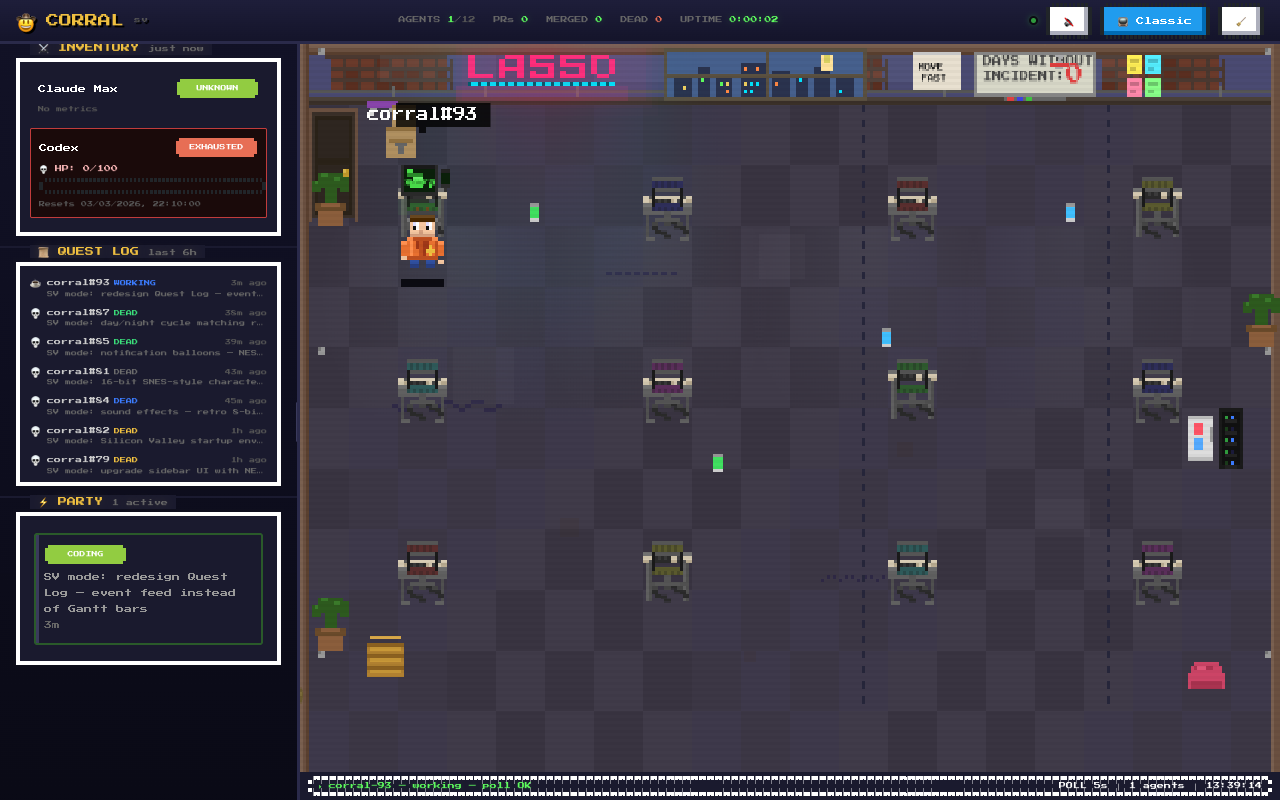
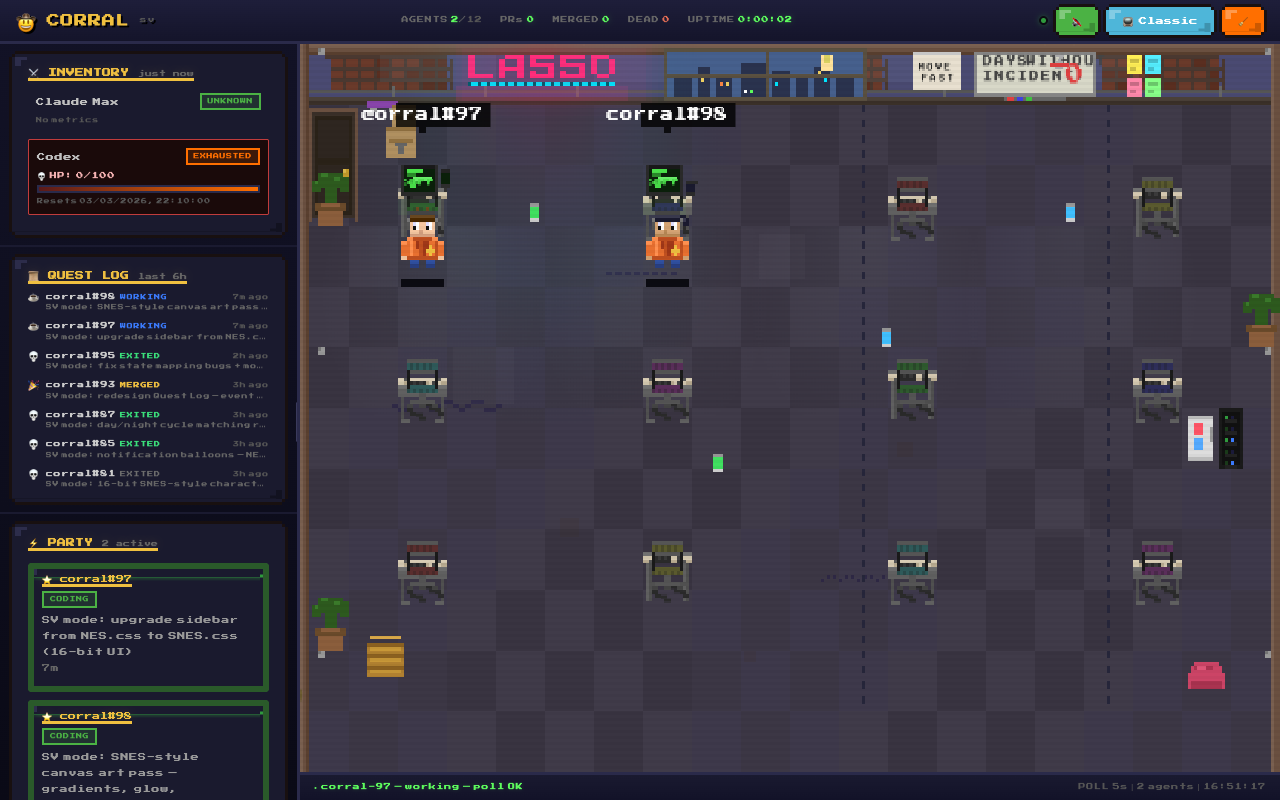
SV mode: upgrade sidebar from NES.css to SNES.css (16-bit UI)
Swap NES.css (8-bit) for SNES.css (16-bit) framework to give the
sidebar a richer 16-bit aesthetic with smoother borders and RPG-style
components.

- Replace CDN: nes.css@2.3.0 → snes.css@1.0.1
- Containers: nes-container → snes-container with colored title underlines
  (nature/green for PARTY, sunshine/yellow for QUEST LOG, ember/orange for INVENTORY)
- Buttons: nes-btn → snes-button with themed colors (ocean, ember)
- Progress bars: custom snes-progress with RPG stat bar gradients
- Badges: custom snes-badge (SNES.css has no badge component)
- Notification balloons: nes-balloon → snes-blockquote has-phantom-bg
- Icons: nes-icon → emoji equivalents (🪙, ⭐)
- Dark theme overrides for all SNES components
- Mobile responsive CSS updated for SNES classes
- Canvas rendering completely unchanged

diff --git a/sv.html b/sv.html
@@ -5,7 +5,7 @@
 <meta name="viewport" content="width=device-width, initial-scale=1.0">
 <title>Corral 🤠 — SV Mode</title>
 <link href="https://fonts.googleapis.com/css2?family=Press+Start+2P&display=swap" rel="stylesheet">
-<link href="https://unpkg.com/nes.css@2.3.0/css/nes.min.css" rel="stylesheet" />
+<link href="https://unpkg.com/snes.css@1.0.1/dist/snes.min.css" rel="stylesheet" />
 <style>
   * { margin: 0; padding: 0; box-sizing: border-box; }
   body {
@@ -421,41 +421,107 @@
   /* No-data message */
   .no-data { color: #555; font-size: 7px; text-align: center; padding: 12px; }
 
-  /* === NES.CSS DARK THEME OVERRIDES === */
-  .nes-container.is-dark {
+  /* === SNES.CSS DARK THEME OVERRIDES === */
+  .snes-container {
     background: #1a1a2e;
     padding: 8px 10px;
     margin-bottom: 0;
     position: relative;
+    border-image-outset: 3px;
+    border-width: 6px;
   }
-  .nes-container.is-dark.with-title > .title {
-    background-color: #1a1a2e;
+  .snes-container::before {
+    background-color: rgba(0,0,0,0.3);
+    height: 9px;
+    width: calc(100% + 9px);
+  }
+  .snes-container::after {
+    background-color: rgba(100,100,160,0.25);
+    height: 9px;
+    width: calc(100% + 9px);
+  }
+  .snes-container > .snes-container-title {
     color: #f0c040;
     font-size: 9px;
     text-shadow: 0 0 8px #f0c04022;
+    letter-spacing: 0;
+    word-spacing: normal;
+    margin-bottom: 8px;
   }
-  .nes-container.is-dark::after {
-    box-shadow: inset -4px -4px #2a2a4a;
+  .snes-container > .snes-container-title::after {
+    background-color: #f0c040;
+    height: 3px;
+    bottom: -4px;
   }
-  .nes-container.is-dark::before {
-    box-shadow: inset -4px -4px #3a3a5c;
+  /* Custom badges (SNES.css has no badge component) */
+  .snes-badge { white-space: nowrap; display: inline-block; }
+  .snes-badge span {
+    font-family: 'Press Start 2P', cursive;
+    font-size: 6px;
+    padding: 2px 6px;
+    border: 2px solid;
+    display: inline-block;
+    text-transform: uppercase;
+    letter-spacing: 0.5px;
   }
-  .nes-badge { white-space: nowrap; }
-  .nes-badge span { font-size: 6px; padding: 2px 6px; }
-  .nes-progress {
+  .snes-badge .is-success { border-color: #4bb244; color: #4bb244; background: rgba(75,178,68,0.15); }
+  .snes-badge .is-primary { border-color: #4eb6d9; color: #4eb6d9; background: rgba(78,182,217,0.15); }
+  .snes-badge .is-warning { border-color: #f2c019; color: #f2c019; background: rgba(242,192,25,0.15); }
+  .snes-badge .is-error { border-color: #ff6f00; color: #ff6f00; background: rgba(255,111,0,0.15); }
+  /* SNES-styled progress bars (RPG stat bars) */
+  .snes-progress {
+    -webkit-appearance: none;
+    appearance: none;
     height: 8px;
-    border-color: #2a2a4a;
+    width: 100%;
+    border: 2px solid #2a2a4a;
     background: #0f0f1a;
+    display: block;
   }
-  .nes-btn {
+  .snes-progress::-webkit-progress-bar { background: #0f0f1a; }
+  .snes-progress::-webkit-progress-value { transition: width 0.3s ease; }
+  .snes-progress.is-success::-webkit-progress-value { background: linear-gradient(90deg, #1a4a1a, #4bb244); }
+  .snes-progress.is-primary::-webkit-progress-value { background: linear-gradient(90deg, #1a2a5a, #4eb6d9); }
+  .snes-progress.is-warning::-webkit-progress-value { background: linear-gradient(90deg, #5a4a10, #f2c019); }
+  .snes-progress.is-error::-webkit-progress-value { background: linear-gradient(90deg, #5a1a1a, #ff6f00); }
+  .snes-progress::-moz-progress-bar { transition: width 0.3s ease; }
+  .snes-progress.is-success::-moz-progress-bar { background: linear-gradient(90deg, #1a4a1a, #4bb244); }
+  .snes-progress.is-primary::-moz-progress-bar { background: linear-gradient(90deg, #1a2a5a, #4eb6d9); }
+  .snes-progress.is-warning::-moz-progress-bar { background: linear-gradient(90deg, #5a4a10, #f2c019); }
+  .snes-progress.is-error::-moz-progress-bar { background: linear-gradient(90deg, #5a1a1a, #ff6f00); }
+  /* SNES button overrides for compact dark UI */
+  .snes-button {
     font-family: 'Press Start 2P', cursive;
     font-size: 8px;
     padding: 4px 10px;
+    border-image-outset: 3px;
+    border-width: 6px;
+    line-height: 1;
+    color: #fff;
   }
-  .nes-btn.is-primary { color: #fff; }
-  .nes-icon { display: inline-block; vertical-align: middle; }
-  .sidebar .nes-container {
-    border-image-repeat: stretch;
+  .snes-button::before {
+    height: 9px;
+    width: calc(100% + 9px);
+  }
+  .snes-button::after {
+    height: 9px;
+    width: calc(100% + 9px);
+  }
+  /* SNES blockquote overrides for notification balloons */
+  .snes-blockquote.notif-balloon {
+    text-align: left;
+    border-image-outset: 3px;
+    border-width: 6px;
+    padding: 8px 10px;
+    margin-bottom: 0;
+  }
+  .snes-blockquote.notif-balloon::before {
+    height: 9px;
+    width: calc(100% + 9px);
+  }
+  .snes-blockquote.notif-balloon::after {
+    height: 9px;
+    width: calc(100% + 9px);
   }
 
   /* Mobile menu button — hidden on desktop */
@@ -541,16 +607,16 @@
     }
     .ac-detail { font-size: 9px; line-height: 2.2; }
 
-    /* NES.css mobile overrides */
-    .nes-container.is-dark.with-title {
+    /* SNES.css mobile overrides */
+    .snes-container {
       padding: 8px 10px;
     }
-    .nes-container.is-dark.with-title > .title {
+    .snes-container > .snes-container-title {
       font-size: 8px;
     }
-    .nes-badge span { font-size: 5px; }
-    .nes-btn { font-size: 7px; padding: 3px 6px; }
-    .nes-progress { height: 6px; }
+    .snes-badge span { font-size: 5px; }
+    .snes-button { font-size: 7px; padding: 3px 6px; }
+    .snes-progress { height: 6px; }
 
     /* Sidebar sections: more padding */
     .sb-section { padding: 10px 12px; }
@@ -614,7 +680,7 @@
     .top-title { font-size: 9px; }
     .top-title .ver { font-size: 6px; }
     .top-stats { font-size: 6px; gap: 6px 10px; }
-    .nes-btn { font-size: 6px; padding: 2px 4px; }
+    .snes-button { font-size: 6px; padding: 2px 4px; }
 
     .sb-header { font-size: 9px; }
     .agent-card { padding: 8px 10px !important; }
@@ -656,10 +722,10 @@
   </div>
   <div class="top-controls">
     <div class="conn-dot connecting" id="connDot" title="Connecting"></div>
-    <button class="nes-btn" id="soundToggleBtn" onclick="toggleSound()" title="Sound off (S)">🔇</button>
-    <button class="nes-btn is-primary" id="toggleViewBtn" onclick="switchToClassic()" title="Switch to Classic view">📺 Classic</button>
-    <button class="nes-btn" id="cleanBtn" onclick="cleanAgents()">🧹</button>
-    <button class="nes-btn mobile-menu-btn" id="mobileMenuBtn" onclick="toggleMobileSidebar()" title="Toggle sidebar">☰</button>
+    <button class="snes-button" id="soundToggleBtn" onclick="toggleSound()" title="Sound off (S)">🔇</button>
+    <button class="snes-button has-ocean-color" id="toggleViewBtn" onclick="switchToClassic()" title="Switch to Classic view">📺 Classic</button>
+    <button class="snes-button has-ember-color" id="cleanBtn" onclick="cleanAgents()">🧹</button>
+    <button class="snes-button mobile-menu-btn" id="mobileMenuBtn" onclick="toggleMobileSidebar()" title="Toggle sidebar">☰</button>
   </div>
 </div>
 
@@ -674,8 +740,8 @@
 
     <!-- Usage / Inventory -->
     <div class="sb-section">
-      <section class="nes-container is-dark with-title">
-        <p class="title">⚔ INVENTORY <span class="count" id="usageUpdated" style="font-size:7px;color:#666">—</span></p>
+      <section class="snes-container">
+        <p class="snes-container-title has-ember-underline">⚔ INVENTORY <span class="count" id="usageUpdated" style="font-size:7px;color:#666">—</span></p>
         <div id="usageCards">
           <div class="no-data">Loading usage data...</div>
         </div>
@@ -684,8 +750,8 @@
 
     <!-- Timeline / Quest Log -->
     <div class="sb-section">
-      <section class="nes-container is-dark with-title">
-        <p class="title">📜 QUEST LOG <span class="count" id="timelineRange" style="font-size:7px;color:#666">—</span></p>
+      <section class="snes-container">
+        <p class="snes-container-title has-sunshine-underline">📜 QUEST LOG <span class="count" id="timelineRange" style="font-size:7px;color:#666">—</span></p>
 
         <div id="timelineRows" class="ql-feed">
           <div class="no-data">No quests yet...</div>
@@ -695,8 +761,8 @@
 
     <!-- Agents / Party -->
     <div class="sb-section">
-      <section class="nes-container is-dark with-title">
-        <p class="title">⚡ PARTY <span class="count" id="agentCount" style="font-size:7px;color:#666">—</span></p>
+      <section class="snes-container">
+        <p class="snes-container-title has-nature-underline">⚡ PARTY <span class="count" id="agentCount" style="font-size:7px;color:#666">—</span></p>
         <div id="notificationArea"></div>
         <div id="agentCards">
           <div class="no-data">Waiting for agent data...</div>
@@ -711,7 +777,7 @@
       <canvas id="office" width="640" height="384"></canvas>
       <div class="scanlines"></div>
     </div>
-    <div class="status-bar nes-container is-dark is-rounded" style="padding:0 14px;margin:0;border-radius:0">
+    <div class="status-bar" style="padding:0 14px;margin:0">
       <span class="sb-log" id="statusLog">▸ Connecting to server...</span>
       <span>POLL 5s │ <span id="agentCountBar">0</span> agents │ <span id="clock"></span></span>
     </div>
@@ -763,7 +829,7 @@ function showNotification(emoji, message, colorClass) {
   }
 
   const balloon = document.createElement('div');
-  balloon.className = 'nes-balloon from-left is-dark notif-balloon';
+  balloon.className = 'snes-blockquote has-phantom-bg notif-balloon';
   balloon.innerHTML = '<span class="' + colorClass + '">' + emoji + ' ' + escapeHtml(message) + '</span>';
   area.appendChild(balloon);
 
@@ -1143,8 +1209,8 @@ function renderAgentCards() {
     const failing = isCiFailing(agent);
     const tokenPct = Math.min(100, Math.max(0, tokens / 2000));
     const agentType = resolveAgentType(agent);
-    const typeIcon = agentType.includes('codex') ? '<i class="nes-icon coin is-small"></i>' :
-                     agentType.includes('claude') ? '<i class="nes-icon star is-small"></i>' : '';
+    const typeIcon = agentType.includes('codex') ? '🪙' :
+                     agentType.includes('claude') ? '⭐' : '';
 
     const titleLabel = repo && issueId ? repo + '#' + escapeHtml(String(issueId)) : (repo || name);
 
@@ -1156,13 +1222,13 @@ function renderAgentCards() {
     if (tokens) detailLine += ` · ${tokensLabel} tok`;
 
     return `
-      <section class="nes-container is-dark with-title agent-card ${cardClass}" style="margin-bottom:8px;padding:6px 8px">
-        <p class="title" style="font-size:8px">${typeIcon} ${escapeHtml(titleLabel)}</p>
+      <section class="snes-container agent-card ${cardClass}" style="margin-bottom:8px;padding:6px 8px">
+        <p class="snes-container-title" style="font-size:8px">${typeIcon} ${escapeHtml(titleLabel)}</p>
         <div style="display:flex;align-items:center;justify-content:space-between;margin-bottom:4px">
-          <span class="nes-badge"><span class="${badgeClass}">${escapeHtml(stateLabel(state).toUpperCase())}</span></span>
+          <span class="snes-badge"><span class="${badgeClass}">${escapeHtml(stateLabel(state).toUpperCase())}</span></span>
         </div>
         <div class="ac-detail" style="margin-bottom:4px">${detailLine}</div>
-        ${tokens ? `<progress class="nes-progress ${progressClass}" value="${Math.round(tokenPct)}" max="100" style="height:8px"></progress>` : ''}
+        ${tokens ? `<progress class="snes-progress ${progressClass}" value="${Math.round(tokenPct)}" max="100" style="height:8px"></progress>` : ''}
       </section>
     `;
   }).join('');
@@ -1202,9 +1268,9 @@ function renderUsageCards() {
         : 'Reset time unknown';
       return `
         <div class="usage-card exhausted">
-          <div class="uc-title"><span>${name}</span><span class="nes-badge"><span class="is-error">EXHAUSTED</span></span></div>
+          <div class="uc-title"><span>${name}</span><span class="snes-badge"><span class="is-error">EXHAUSTED</span></span></div>
           <div class="uc-row" style="color:#f5b3b3">💀 HP: 0/100</div>
-          <progress class="nes-progress is-error" value="100" max="100" style="height:8px"></progress>
+          <progress class="snes-progress is-error" value="100" max="100" style="height:8px"></progress>
           <div class="uc-note">${escapeHtml(resetLabel)}</div>
         </div>`;
     }
@@ -1237,12 +1303,12 @@ function renderUsageCards() {
 
       return `
         <div class="uc-row"><span>${label}</span><span>${hearts} ${escapeHtml(valStr)}</span></div>
-        <progress class="nes-progress ${progressClass}" value="${fillWidth}" max="100" style="height:8px"></progress>`;
+        <progress class="snes-progress ${progressClass}" value="${fillWidth}" max="100" style="height:8px"></progress>`;
     }).join('');
 
     return `
       <div class="usage-card" style="border:none;background:transparent">
-        <div class="uc-title"><span>${name}</span><span class="nes-badge"><span class="${badgeClass}">${level.toUpperCase()}</span></span></div>
+        <div class="uc-title"><span>${name}</span><span class="snes-badge"><span class="${badgeClass}">${level.toUpperCase()}</span></span></div>
         ${metricsHtml || '<div class="uc-note">No metrics</div>'}
         ${resetNote ? '<div class="uc-note">' + escapeHtml(resetNote) + '</div>' : ''}
       </div>`;
